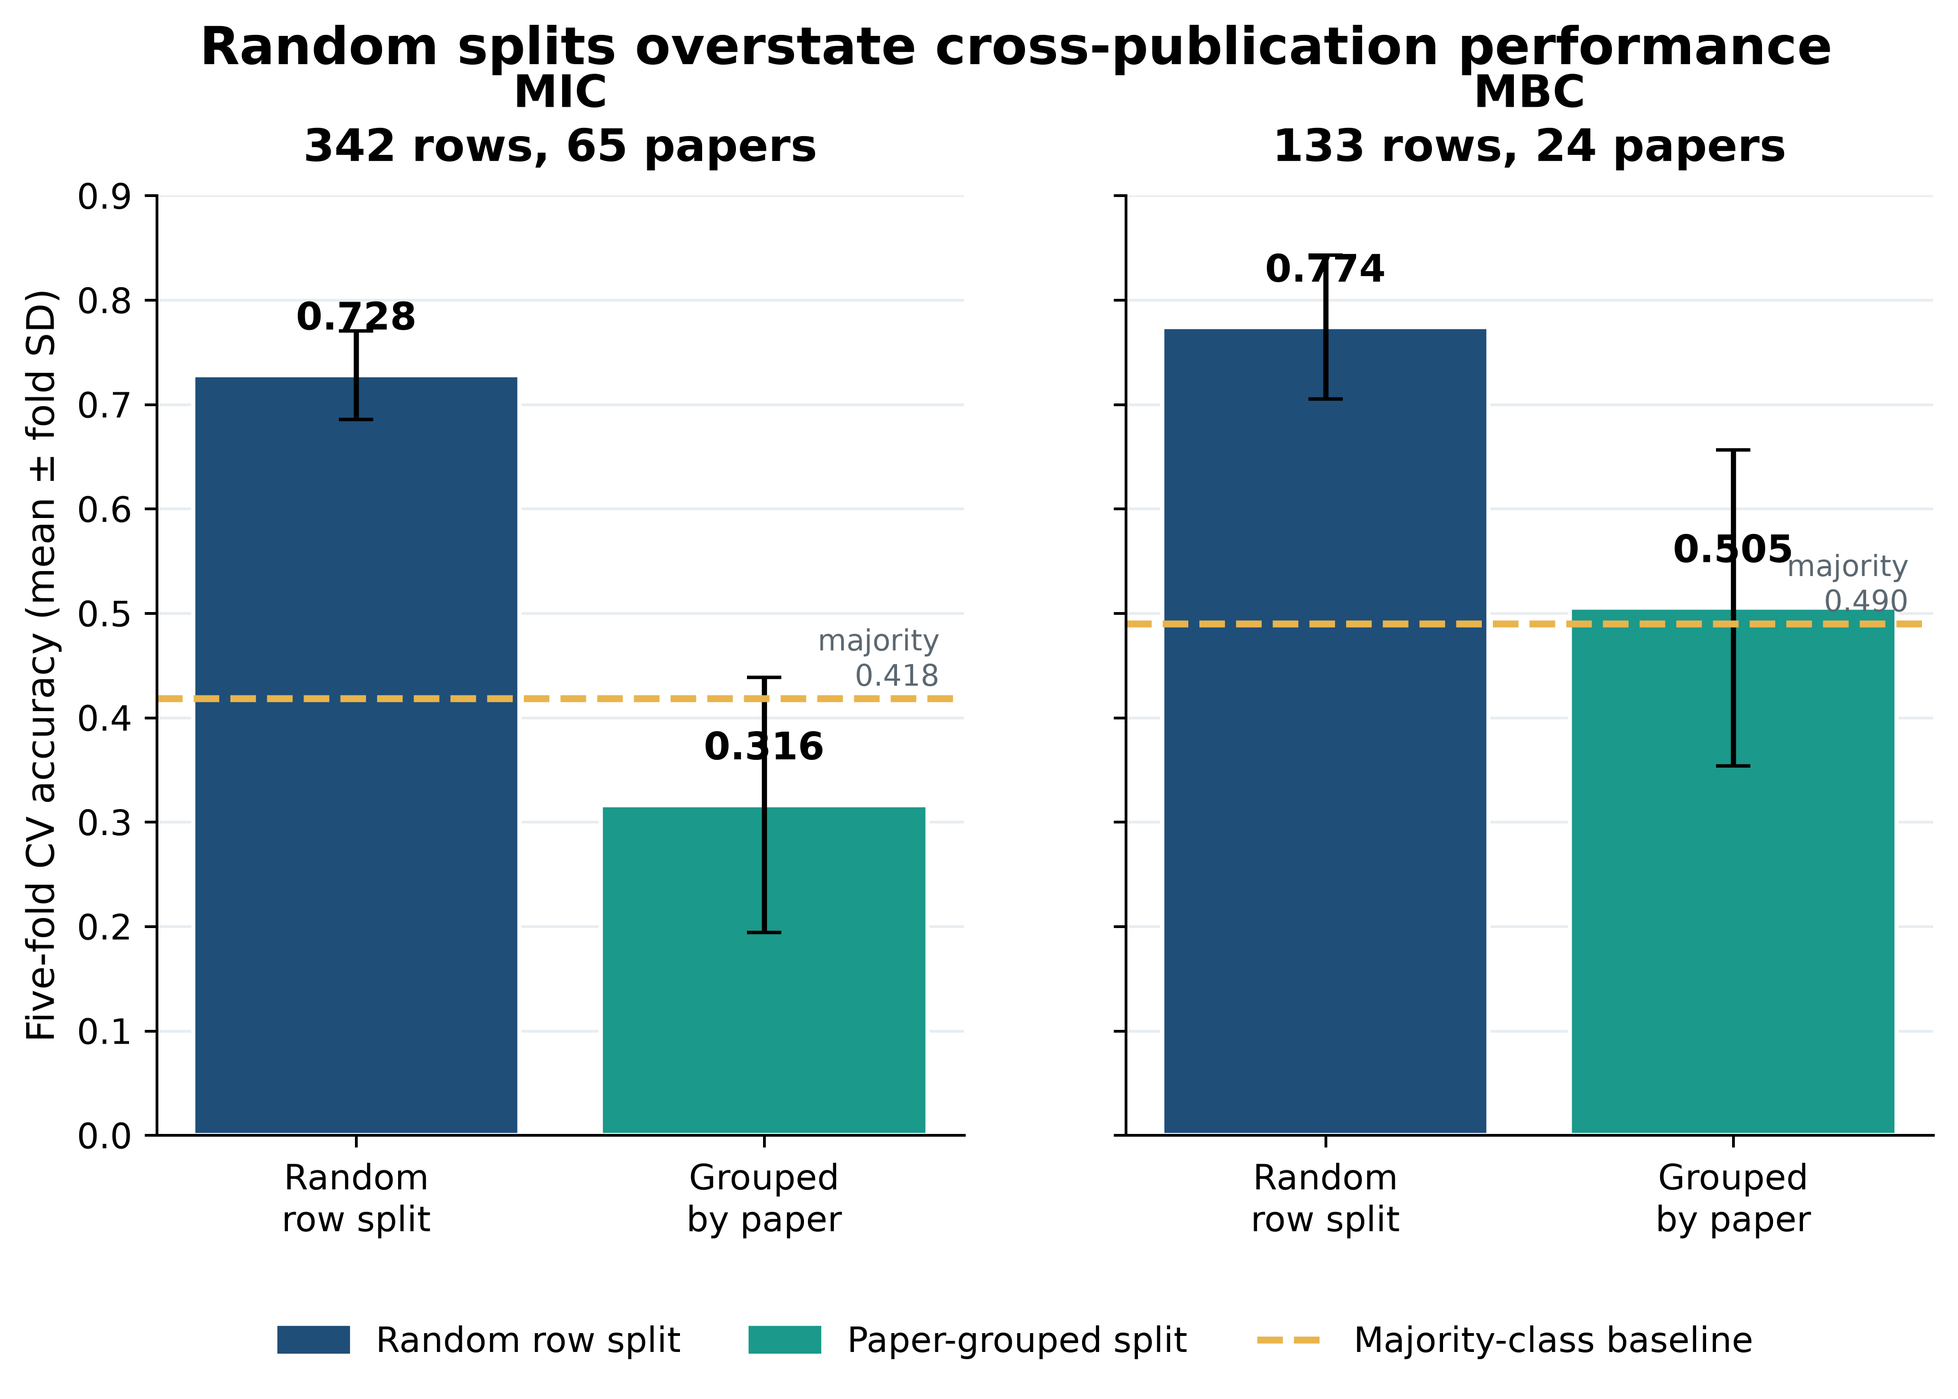
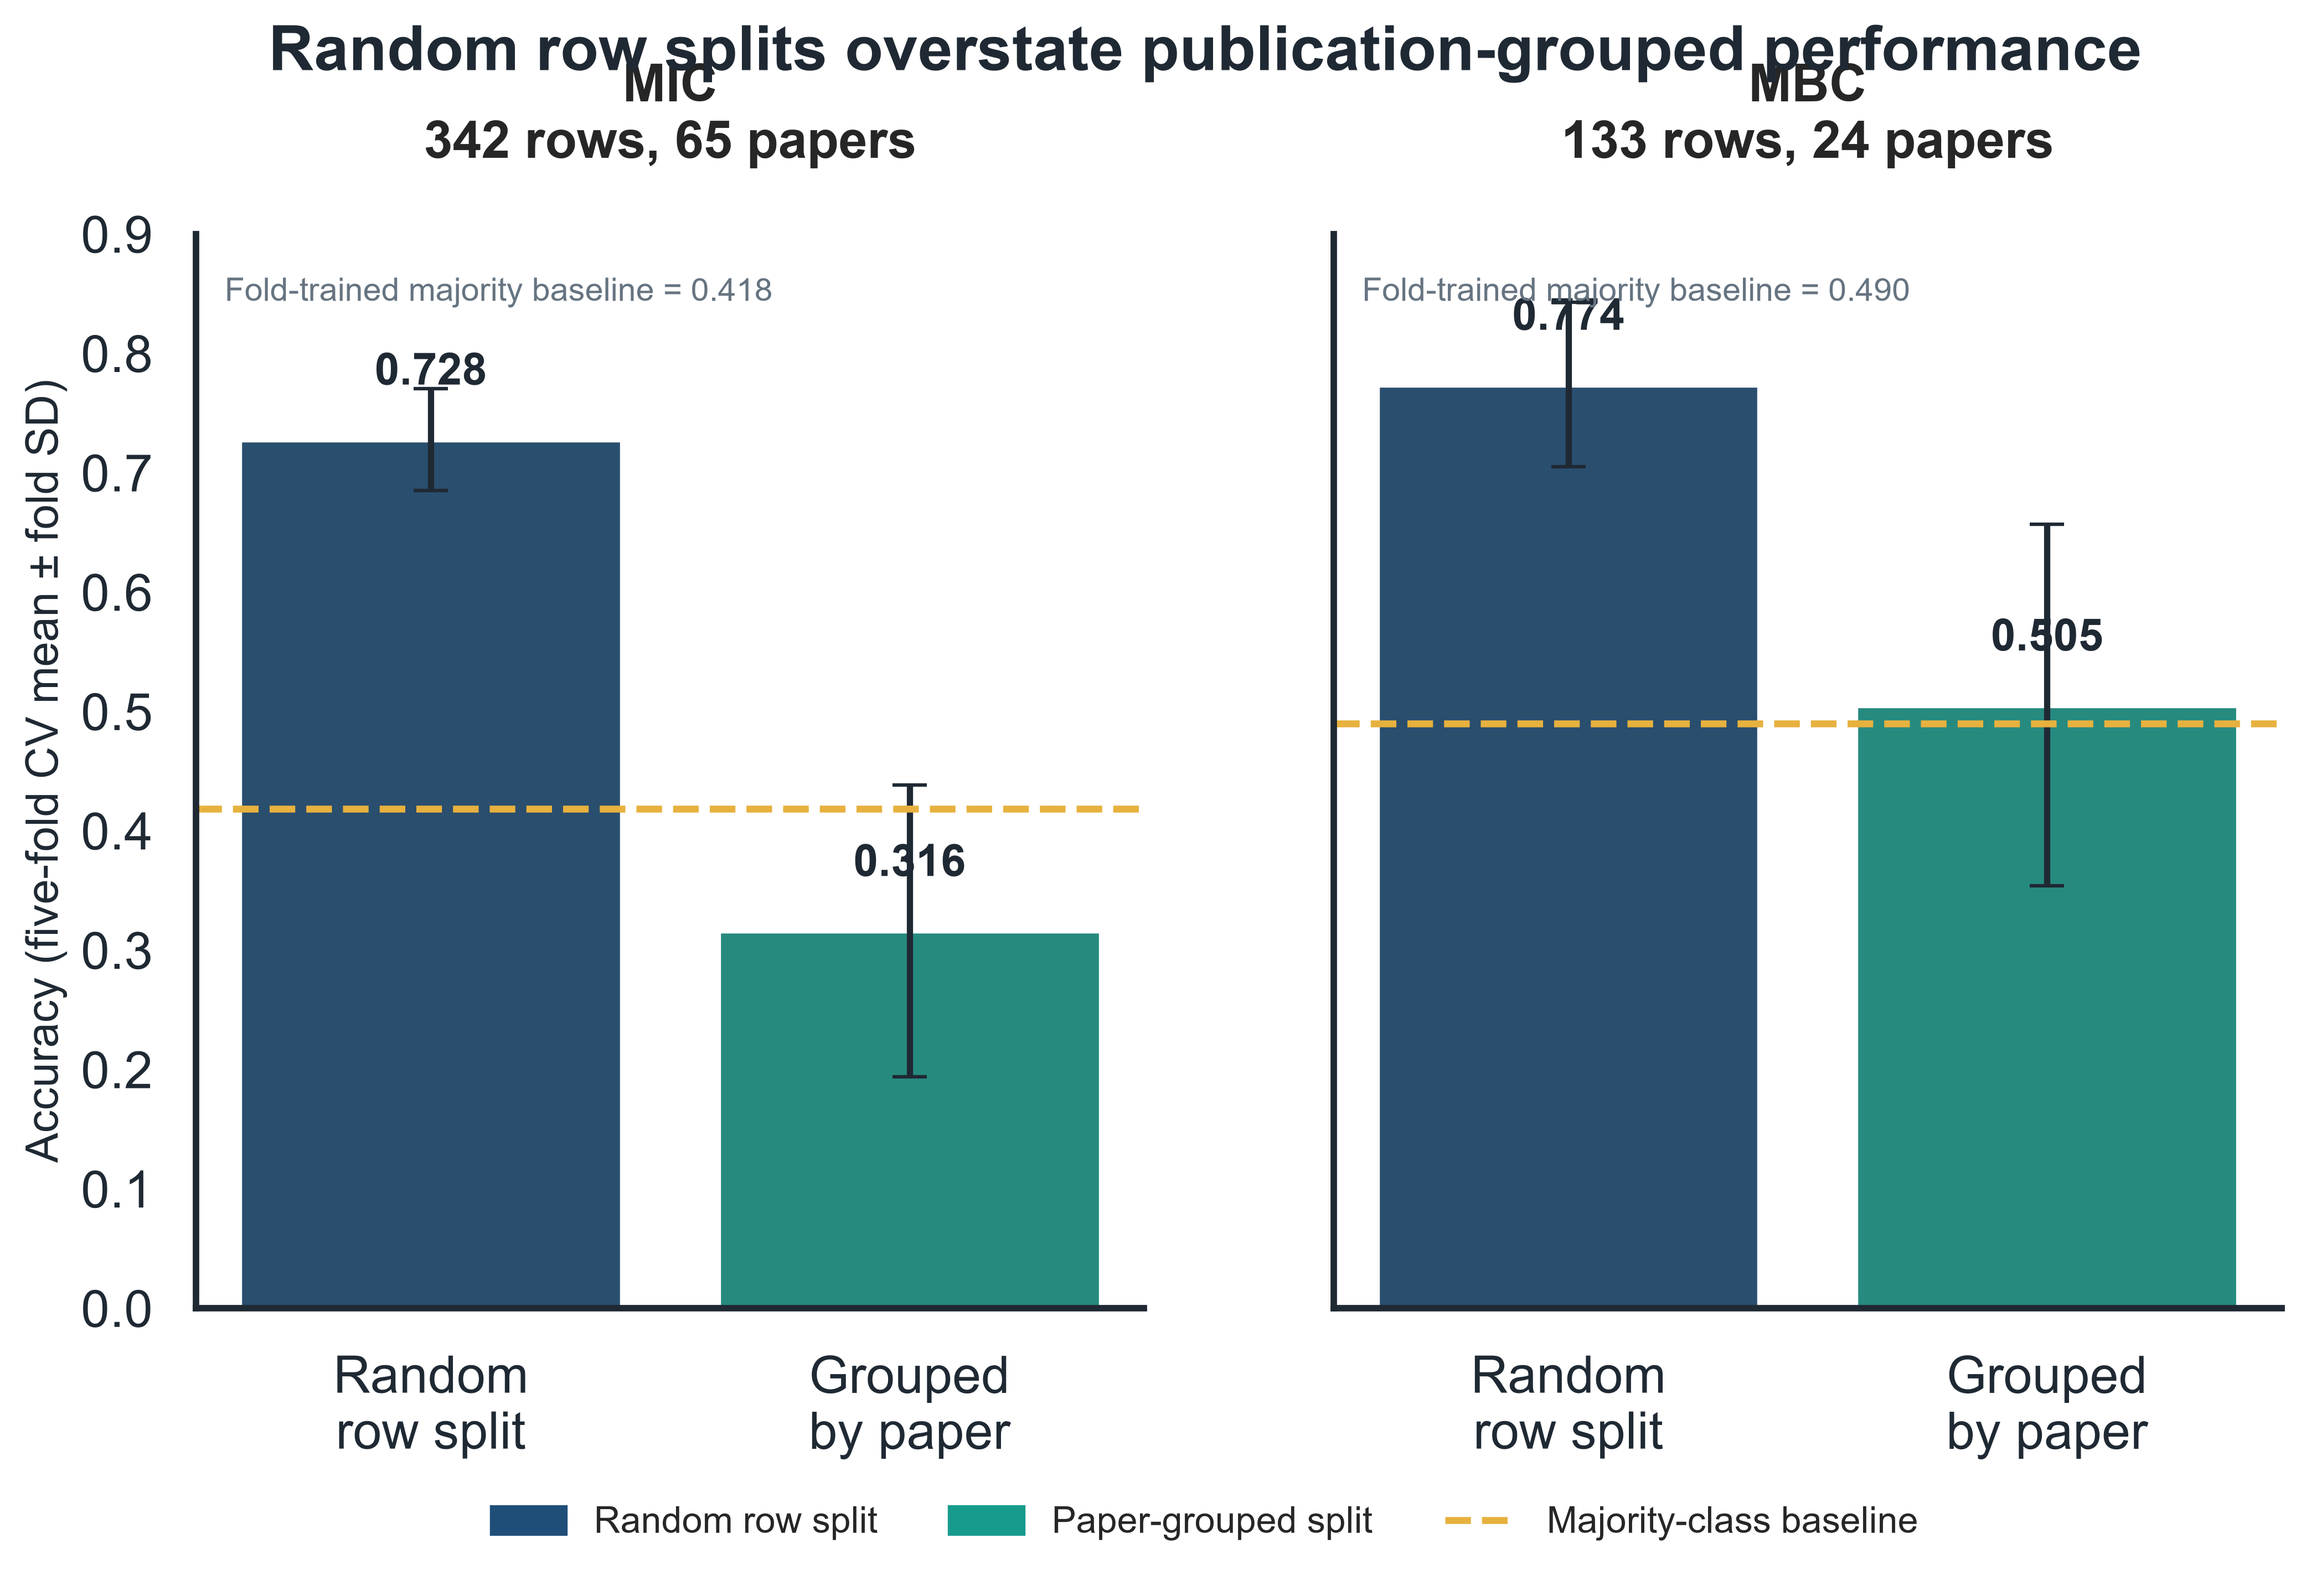
Restyle poster figures with seaborn

diff --git a/scripts/10_poster_figures.py b/scripts/10_poster_figures.py
@@ -11,9 +11,15 @@ from __future__ import annotations
 
 from pathlib import Path
 
+import matplotlib
+
+# Generate PNGs reproducibly without requiring an interactive desktop backend.
+matplotlib.use("Agg")
+
 import matplotlib.pyplot as plt
 import numpy as np
 import pandas as pd
+import seaborn as sns
 
 
 ROOT = Path(__file__).resolve().parents[1]
@@ -23,10 +29,34 @@ FIGURES = ROOT / "outputs" / "figures"
 DPI = 450
 
 NAVY = "#1F4E79"
-TEAL = "#1B998B"
-GOLD = "#E9B44C"
-SLATE = "#5B6770"
-LIGHT_GRAY = "#E8EDF1"
+TEAL = "#169B8C"
+GOLD = "#E7B13E"
+INK = "#1F2933"
+MUTED = "#667481"
+GRID = "#DCE3E8"
+
+
+def apply_theme() -> None:
+    """Use one restrained, colorblind-friendly poster style across all figures."""
+    sns.set_theme(
+        style="whitegrid",
+        context="talk",
+        font_scale=0.9,
+        rc={
+            "axes.edgecolor": INK,
+            "axes.labelcolor": INK,
+            "axes.titleweight": "bold",
+            "axes.labelsize": 13,
+            "axes.titlesize": 15,
+            "figure.facecolor": "white",
+            "axes.facecolor": "white",
+            "grid.color": GRID,
+            "grid.linewidth": 0.8,
+            "xtick.color": INK,
+            "ytick.color": INK,
+            "legend.frameon": False,
+        },
+    )
 
 
 def save(fig: plt.Figure, name: str) -> None:
@@ -37,7 +67,9 @@ def save(fig: plt.Figure, name: str) -> None:
 
 def style_axes(ax: plt.Axes) -> None:
     ax.spines[["top", "right"]].set_visible(False)
-    ax.grid(axis="y", color=LIGHT_GRAY, linewidth=0.8)
+    ax.spines[["left", "bottom"]].set_color(INK)
+    ax.grid(axis="y")
+    ax.grid(axis="x", visible=False)
     ax.set_axisbelow(True)
 
 
@@ -62,37 +94,50 @@ def endpoint_figure() -> None:
         },
     }
 
-    fig, axes = plt.subplots(1, 2, figsize=(9.2, 4.9), sharey=True)
+    fig, axes = plt.subplots(1, 2, figsize=(10.8, 5.6), sharey=True)
     labels = ["Random\nrow split", "Grouped\nby paper"]
     colors = [NAVY, TEAL]
     for ax, (endpoint, data) in zip(axes, endpoints.items()):
         x = np.arange(2)
-        ax.bar(
-            x,
-            data["values"],
-            yerr=data["errors"],
-            capsize=5,
-            color=colors,
-            edgecolor="white",
-            linewidth=1.2,
+        plot_data = pd.DataFrame({"evaluation": labels, "accuracy": data["values"]})
+        sns.barplot(
+            data=plot_data,
+            x="evaluation",
+            y="accuracy",
+            hue="evaluation",
+            palette=colors,
+            legend=False,
+            errorbar=None,
+            ax=ax,
         )
+        ax.errorbar(x, data["values"], yerr=data["errors"], fmt="none", ecolor=INK, capsize=5, linewidth=1.8)
         ax.axhline(data["baseline"], color=GOLD, linestyle="--", linewidth=2)
         for xpos, value in zip(x, data["values"]):
-            ax.text(xpos, value + 0.035, f"{value:.3f}", ha="center", va="bottom", fontsize=11, weight="bold")
-        ax.text(1.43, data["baseline"] + 0.012, f"majority\n{data['baseline']:.3f}", color=SLATE, fontsize=8.5, ha="right")
-        ax.set_title(endpoint, fontsize=13, weight="bold", pad=10)
-        ax.set_xticks(x, labels, fontsize=10)
+            ax.text(xpos, value + 0.038, f"{value:.3f}", ha="center", va="bottom", fontsize=13, weight="bold", color=INK)
+        ax.text(
+            0.03,
+            0.96,
+            f"Fold-trained majority baseline = {data['baseline']:.3f}",
+            transform=ax.transAxes,
+            ha="left",
+            va="top",
+            fontsize=9.5,
+            color=MUTED,
+        )
+        ax.set_title(endpoint, pad=22)
+        ax.set_xlabel("")
         ax.set_ylim(0, 0.9)
         style_axes(ax)
-    axes[0].set_ylabel("Five-fold CV accuracy (mean ± fold SD)", fontsize=11)
-    fig.suptitle("Random splits overstate cross-publication performance", fontsize=15, weight="bold", y=1.02)
+    axes[0].set_ylabel("Accuracy (five-fold CV mean ± fold SD)")
+    fig.suptitle("Random row splits overstate publication-grouped performance", fontsize=18, weight="bold", color=INK, y=1.03)
     fig.legend(
         [plt.Rectangle((0, 0), 1, 1, color=NAVY), plt.Rectangle((0, 0), 1, 1, color=TEAL), plt.Line2D([0], [0], color=GOLD, linestyle="--", linewidth=2)],
         ["Random row split", "Paper-grouped split", "Majority-class baseline"],
         loc="lower center",
         ncol=3,
         frameon=False,
-        bbox_to_anchor=(0.5, -0.10),
+        bbox_to_anchor=(0.5, -0.08),
+        fontsize=10.5,
     )
     save(fig, "figure_1_endpoint_random_vs_grouped.png")
 
@@ -110,23 +155,33 @@ def species_figure() -> None:
     ]
     x = np.arange(len(species))
 
-    fig, ax = plt.subplots(figsize=(8.6, 5.1))
-    model = ax.bar(x, species["accuracy"], 0.56, color=TEAL, label="Grouped out-of-fold accuracy")
-    for bar in model:
+    fig, ax = plt.subplots(figsize=(9.2, 5.4))
+    model = sns.barplot(
+        data=species,
+        x="frequency_bucket",
+        y="accuracy",
+        order=order,
+        color=TEAL,
+        errorbar=None,
+        width=0.56,
+        ax=ax,
+    )
+    for bar in model.patches:
         ax.text(bar.get_x() + bar.get_width() / 2, bar.get_height() + 0.014, f"{bar.get_height():.3f}", ha="center", va="bottom", fontsize=10, weight="bold")
-    ax.set_xticks(x, labels, fontsize=10)
-    ax.set_ylabel("Accuracy", fontsize=11)
-    ax.set_ylim(0, 0.58)
-    ax.set_title("Grouped OOF accuracy by species-frequency stratum", fontsize=15, weight="bold", pad=12)
-    ax.legend(frameon=False, loc="upper right")
+    ax.set_xticks(x, labels, fontsize=11)
+    ax.set_ylabel("Grouped out-of-fold accuracy")
+    ax.set_xlabel("Species frequency in the released MIC dataset")
+    ax.set_ylim(0, 0.46)
+    ax.set_title("Grouped OOF accuracy by species-frequency stratum", fontsize=17, weight="bold", pad=16, color=INK)
     style_axes(ax)
     ax.text(
-        0.01,
-        -0.22,
-        "Single paper-grouped MIC model; strata are evaluated from its out-of-fold predictions.",
+        0.5,
+        -0.21,
+        "Descriptive out-of-fold stratification from one paper-grouped MIC model; not a causal rarity test.",
         transform=ax.transAxes,
-        fontsize=9,
-        color=SLATE,
+        ha="center",
+        fontsize=9.5,
+        color=MUTED,
     )
     save(fig, "figure_2_species_frequency_strata.png")
 
@@ -144,39 +199,58 @@ def magpie_figure() -> None:
     accuracy_gain = no_magpie["grouped_accuracy"] - full["grouped_accuracy"]
     macro_f1_gain = no_magpie["grouped_macro_f1"] - full["grouped_macro_f1"]
 
-    fig, ax = plt.subplots(figsize=(8.6, 3.9))
-    ax.barh([0], [all_constant], color=NAVY, height=0.52, label="All 22 descriptors constant")
-    ax.barh([0], [variable], left=[all_constant], color=GOLD, height=0.52, label="At least one descriptor varies")
-    ax.text(all_constant / 2, 0, f"{all_constant} papers\n({fraction:.1%})", ha="center", va="center", color="white", fontsize=14, weight="bold")
-    ax.text(all_constant + variable / 2, 0, f"{variable}\npapers", ha="center", va="center", color="#303030", fontsize=12, weight="bold")
-    ax.set_xlim(0, total)
-    ax.set_xticks(np.arange(0, total + 1, 10))
-    ax.set_xlabel("Source papers (n = 65)", fontsize=11)
-    ax.set_yticks([])
-    ax.set_title("Magpie composition descriptors are often paper-constant", fontsize=15, weight="bold", pad=12)
-    ax.legend(ncol=2, frameon=False, loc="upper center", bbox_to_anchor=(0.5, -0.18))
-    ax.spines[["top", "right", "left"]].set_visible(False)
-    ax.grid(axis="x", color=LIGHT_GRAY, linewidth=0.8)
-    ax.set_axisbelow(True)
+    fig, ax = plt.subplots(figsize=(9.2, 4.8))
+    fig.subplots_adjust(left=0.08, right=0.99, top=0.82, bottom=0.34)
+    ax.barh([0], [all_constant], color=NAVY, height=0.48)
+    ax.barh([0], [variable], left=[all_constant], color=GOLD, height=0.48)
     ax.text(
+        all_constant / 2,
         0,
-        -0.72,
-        "Within 55 of 65 source papers, all 22 composition-derived Magpie descriptors are identical across rows.",
-        fontsize=10,
-        color=SLATE,
+        f"{all_constant} papers\nall 22 constant\n({fraction:.1%})",
+        ha="center",
+        va="center",
+        color="white",
+        fontsize=14,
+        weight="bold",
     )
     ax.text(
+        all_constant + variable / 2,
         0,
-        -0.99,
+        f"{variable} papers\n≥1 descriptor varies",
+        ha="center",
+        va="center",
+        color=INK,
+        fontsize=11.5,
+        weight="bold",
+    )
+    ax.set_xlim(0, total)
+    ax.set_xticks(np.arange(0, total + 1, 10))
+    ax.set_xlabel("Source publications (n = 65)")
+    ax.set_yticks([])
+    ax.set_title("Magpie composition descriptors are often paper-constant", fontsize=17, weight="bold", pad=16, color=INK)
+    ax.spines[["top", "right", "left"]].set_visible(False)
+    ax.grid(axis="x", color=GRID, linewidth=0.8)
+    ax.set_axisbelow(True)
+    fig.text(
+        0.08,
+        0.12,
+        "Within 55 of 65 source papers, all 22 composition-derived Magpie descriptors are identical across rows.",
+        fontsize=10.5,
+        color=MUTED,
+    )
+    fig.text(
+        0.08,
+        0.055,
         f"Removing them raised grouped accuracy by {accuracy_gain:+.4f} and macro F1 by {macro_f1_gain:+.4f}; "
         f"accuracy remained below the {no_magpie['majority_baseline']:.4f} fold-trained majority baseline.",
-        fontsize=9.5,
-        color=SLATE,
+        fontsize=10.5,
+        color=MUTED,
     )
     save(fig, "figure_3_magpie_within_paper_constancy.png")
 
 
 def main() -> None:
+    apply_theme()
     endpoint_figure()
     species_figure()
     magpie_figure()
